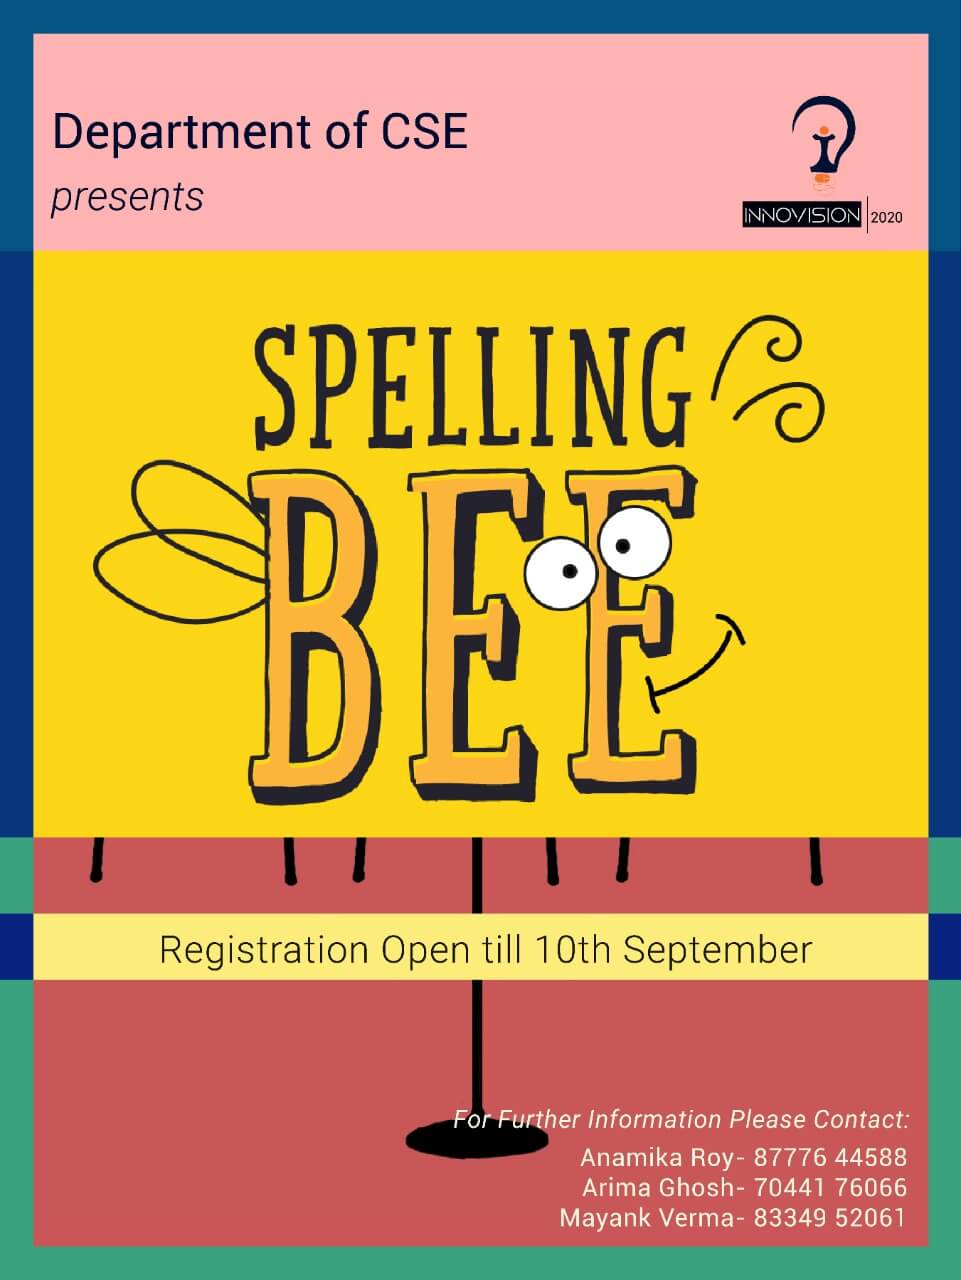
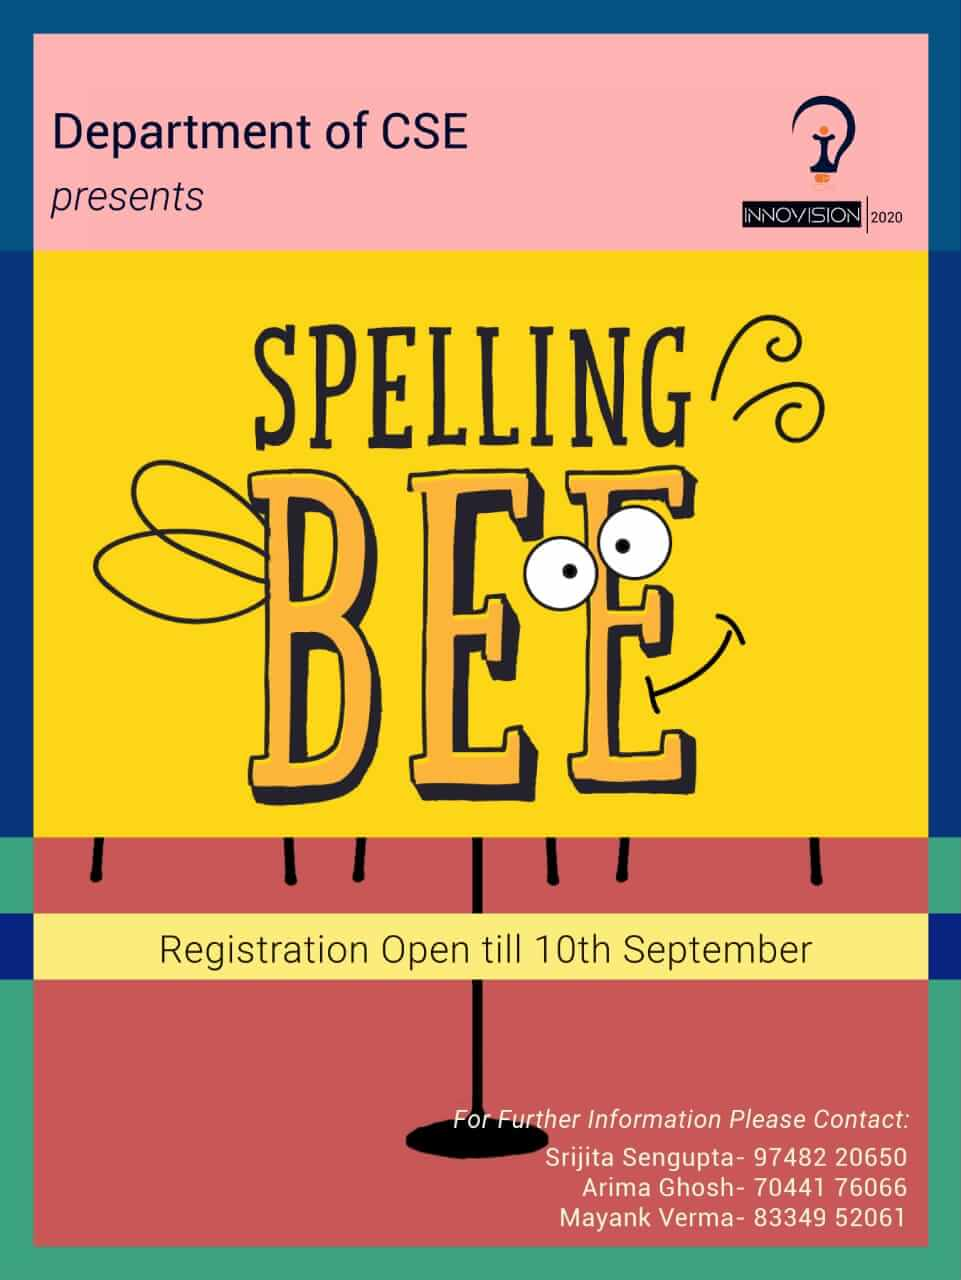
Thirteenth Commit

diff --git a/index.html b/index.html
@@ -465,7 +465,7 @@
                         </div>
                     </div>
                     
-                    <!-- <div class="card " data-aos="fade-right">
+                    <div class="card " data-aos="fade-right">
                         <div class="row no-gutters">
                             <div class="col-md-4">
                                 <img src="images/SpellingBee.jpeg" class="card-img" alt="...">
@@ -481,7 +481,7 @@
                                        <p>For Further Information Please Contact:</p>
                                             <div class="row mt-3" style="font-size:0.8rem;">
                                                 <div class="col-lg-12">
-                                                    <p><span >ANAMIKA ROY </span></br>9007477012<a href="https://wa.me/919007477012"> <i class="fab fa-whatsapp"></i></a></p> 
+                                                    <p><span >SRIJITA SENGUPTA </span></br>9748220650<a href="https://wa.me/919748220650"> <i class="fab fa-whatsapp"></i></a></p> 
                                                 </div>
                                                 <div class="col-lg-12 mt-1">
                                                    <p><span >ARIMA GHOSH </span></br>7044176066<a href="https://wa.me/917044176066" > <i class="fab fa-whatsapp"></i></a></p> 
@@ -489,6 +489,7 @@
                                                 <div class="col-lg-12 mt-1">
                                                     <p><span >MAYANK VERMA </span></br>8334952061<a href="https://wa.me/918334952061" > <i class="fab fa-whatsapp"></i></a></p> 
                                                  </div>
+                                                 
                                             </div>
                                     </div>
                                     <div class="row mt-3">
@@ -542,12 +543,6 @@
                                        <p>For Further Information Please Contact:</p>
                                             <div class="row mt-3" style="font-size:0.8rem;">
                                                 <div class="col-lg-12">
-                                                    <p><span>JAGRIT SARKAR</span></br>8372821542<a href="https://wa.me/918372821542" target="_blank"> <i class="fab fa-whatsapp"></i></a></p>
-                                                </div>
-                                                <div class="col-lg-12 mt-1">
-                                                    <p><span>ARINJOY KUNDU</span></br>9874547178<a href="https://wa.me/919874547178" target="_blank"> <i class="fab fa-whatsapp"></i></a></p>
-                                                </div>
-                                                <div class="col-lg-12 mt-1">
                                                     <p><span>SOUNAK GUPTA</span></br>7001185819<a href="https://wa.me/917001185819" target="_blank"> <i class="fab fa-whatsapp"></i></a></p>
                                                 </div>
                                             </div>
@@ -579,23 +574,33 @@
                                     <p>1. Participants will have to participate in teams of 2 members each</p>
                                     <p>2. The contest will be divided into two phases - prelims and finals
                                     </p>
-                                    <p>3. For prelims there will be 15 questions with 5 starred questions, used for tiebreaking.</br>
-                                        The participants need to write their answers on a piece of paper during the prelims and after the prelims are over they'll be provided with a Google form in which they have to fill the answers within 5 minutes</p>
-                                    <p>4. From the prelims, the top 8 teams will qualify for the finals</p>
-                                    <p>5. The finals will consist of 4 rounds - choice based, visual, riddles, mixed bag.</br>
-                                        Scores from the prelims will not be carried into the finals.</br>
-                                        Each team will get 2 questions per round.</br>
-                                        Questions will be asked in clockwise and then anticlockwise order</p>
-                                    <p>6. Participants will be expected to have a working camera and microphone.</br>
-                                        Participants may be asked to turn them on at any time.
-                                        
+                                    <p>3. For prelims the team would be divided into 3 groups to be placed under each judge.</br>(Eg :- If 18 teams register, they'll be divided in 
+                                        3 groups of 6 teams each, to be placed under a respective judge).
+                                     </p>
+                                    <p>4. From the prelims, the top 5 teams will qualify for the finals
+                                    </p>
+                                    <p>5. The finals will consist of 4 rounds.</p>
+                                    <p>6. Scores from the prelims will not be carried into the finals.
+                                    </p>
+                                    <p>7. Each team will get 2 questions per round, in the finals.
+                                    </p>
+                                    <p>8. Questions will be asked in clockwise and then anticlockwise order.
+                                    </p>
+                                    <p>9. Participants will be expected to have a working camera and microphone.
+                                    </p>
+                                    <p>10.  Participants may be asked to turn them on at any time.
+                                    </p>
+                                    <p>11. Any form of cheating will not be tolerated and organisers retain the right to disqualify any participant on suspicion of cheating
+                                    </p>
+                                    <p>12. Individual details and rules for each round of Finals and Prelims, the marking scheme and all other information would be declared 15 
+                                        minutes prior to the event on our Facebook page.
                                         </p>
-                                    <p>7.Any form of cheating will not be tolerated and organisers retain the right to disqualify any participant on suspicion of cheating</p>
+                                    
 
                                 </div>
                             </div>
                         </div>
-                    </div> -->
+                    </div> 
                     
                     <div class="card " data-aos="fade-right">
                         <div class="row no-gutters">
@@ -696,7 +701,9 @@
                                     <h4>POEMS: </h4>
                                     <h5>RULES: </h5>
                                     <p>1. No more than 2 entries will be allowed per individual. In case of multiple entries, only the first 2 entries will be considered valid.</p>
-                                    <p>2. The content should closely adhere to the the theme "Circle of Life". </p>
+                                    <p> 
+                                        2. The central theme is "Circle of Life". It is not mandatory to adhere to the central theme. 
+                                    </p>
                                     <p>3. Usage of slangs/cuss/offensive words are strictly prohibited. </p>
                                     <p>4. There is no language barrier in terms of submission. Entries in English, Bengali and/or Hindi are welcome. </p>
                                     <p>5. In case of discrepancies, the final judgement will be entitled to the judges/coordinators. </p>
@@ -853,8 +860,7 @@
                             </div>
                             <div class="col-6">
                                 <p>
-                                    Surprise Event
-                                    <!-- Quiz(Prelims and Final) -->
+                                    Quiz(Prelims and Final)
                                 </p>
                             </div>
                             <div class="col-6  time">
@@ -864,8 +870,7 @@
                             </div>
                             <div class="col-6">
                                 <p>
-                                    Surprise Event 
-                                    <!-- Spelling Bee(Prelims and Final) -->
+                                    Spelling Bee(Prelims and Final)
                                 </p>
                             </div>
                             <div class="col-6  time">
